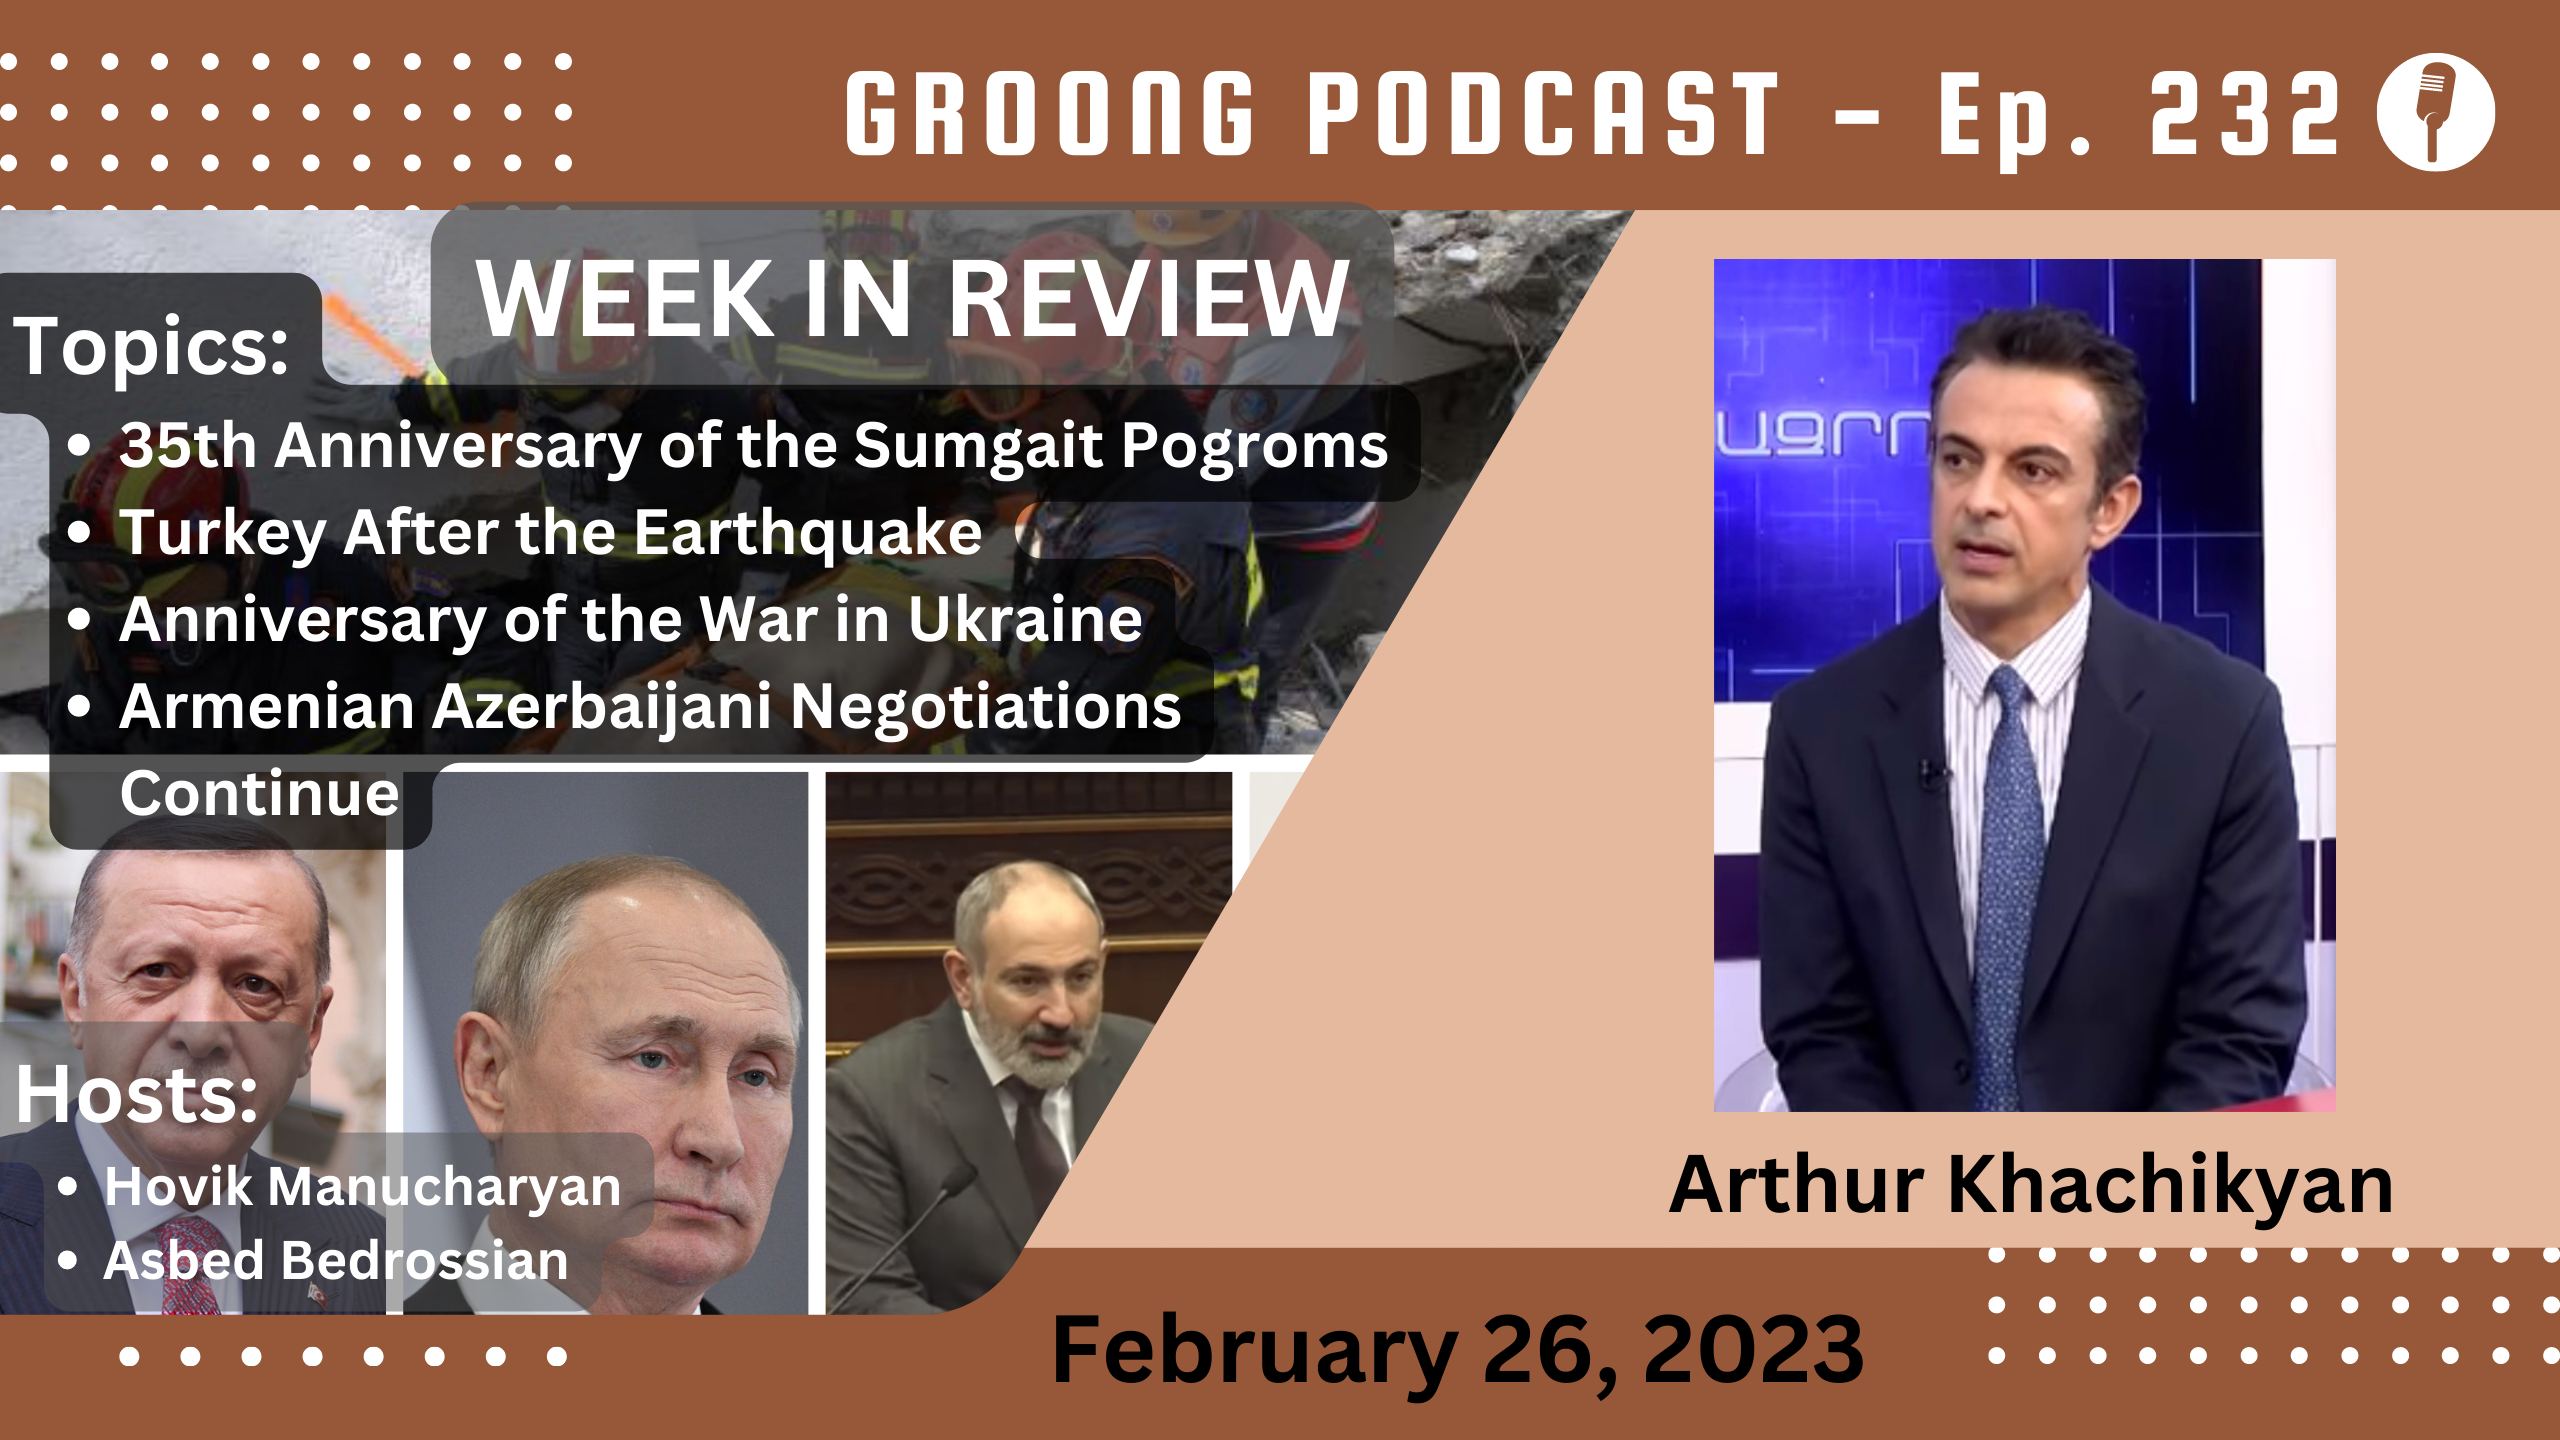
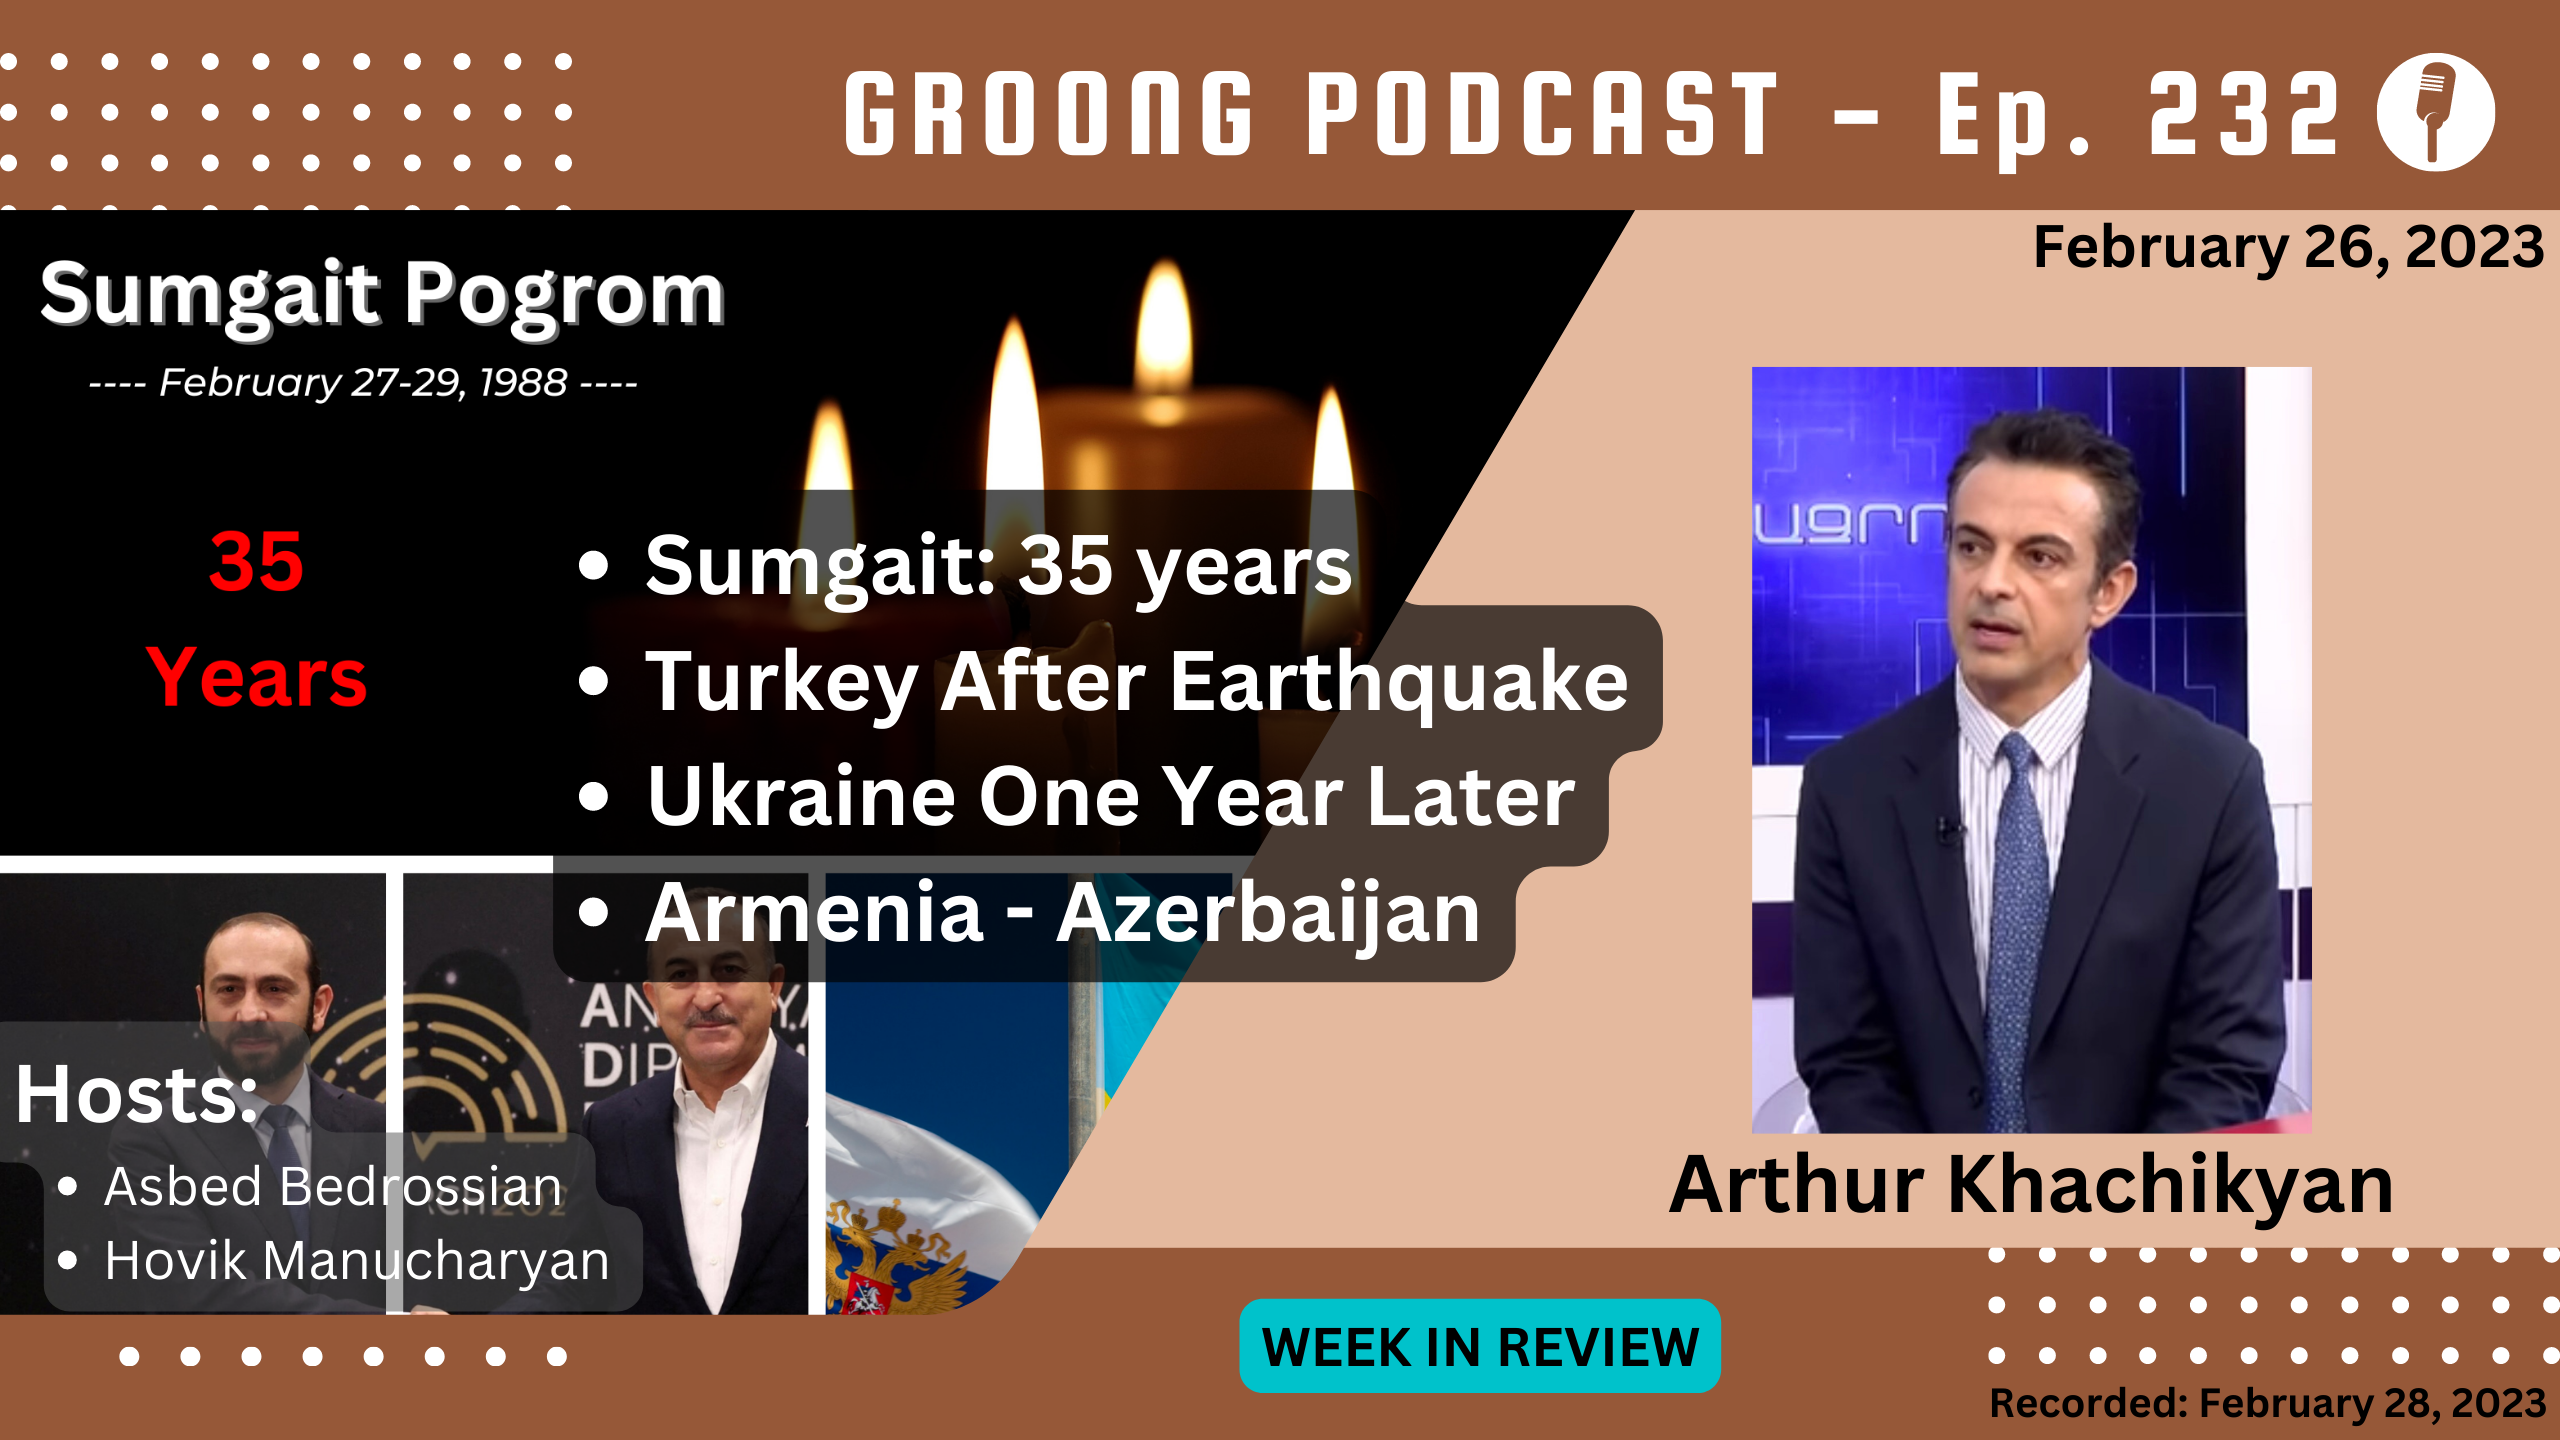
Adding episode 232

diff --git a/content/episode/232-arthur-khachikyan-35th-anniversary-sumgait-pogroms-turkey-after-earthquake-anniversary-ukraine-war-armenian-azerbaijani-negotiations-since-munich.md b/content/episode/232-arthur-khachikyan-35th-anniversary-sumgait-pogroms-turkey-after-earthquake-anniversary-ukraine-war-armenian-azerbaijani-negotiations-since-munich.md
@@ -1,15 +1,15 @@
 +++
 
 Date = 2023-02-28T23:15:00-07:00
-upcoming = true
+upcoming = false
 
 title = "35th Anniversary of the Sumgait Pogroms | Russia Warns the EU and Armenia | Armenian Azerbaijani Negotiations Continue | Ep 232 - Feb 26, 2023"
 subtitle = "Armenian News Network Groong - Feb 26, 2023"
 
-podcast_file = ""
-podcast_bytes = ""
-podcast_duration = ""
-youtube = ""
+podcast_file = "12349378-sumgait-pogroms-turkey-after-earthquake-ukraine-armenia-azerbaijan-ep-232-feb-26-2023.mp3"
+podcast_bytes = "38458517"
+podcast_duration = "3202"
+youtube = "lopulr9GelA"
 
 episode_image = "img/episode/232/thumbnail-232.jpg"
 episode_banner = "img/episode/232/banner-232.png"
@@ -28,9 +28,11 @@ tags = ["Arthur Khachikyan", "Armenia", "Artsakh", "Nagorno Karabakh", "Azerbaij
 Description = """
 
 #### Guest:
+
 * [Arthur Khachikyan](/guest/akhachikyan)
 
 #### Topics:
+
 * 35th Anniversary of the Sumgait Pogroms
 * Turkey after the Earthquake
 * One Year Anniversary of the War in Ukraine

diff --git a/content/guest/akhachikyan.md b/content/guest/akhachikyan.md
@@ -17,4 +17,4 @@ Twitch = ""
 #guest_group = "wir"
 +++
 
-Dr. Arthur Khachikyan, who is an International Relations expert from Stanford University, specializing in Intervention. He currently teaches at the Russian Armenian University in Yerevan.
+Dr. Arthur Khachikyan, an International Relations expert from Stanford University, specializing in intervention. He currently teaches at the Russian Armenian University in Yerevan.
